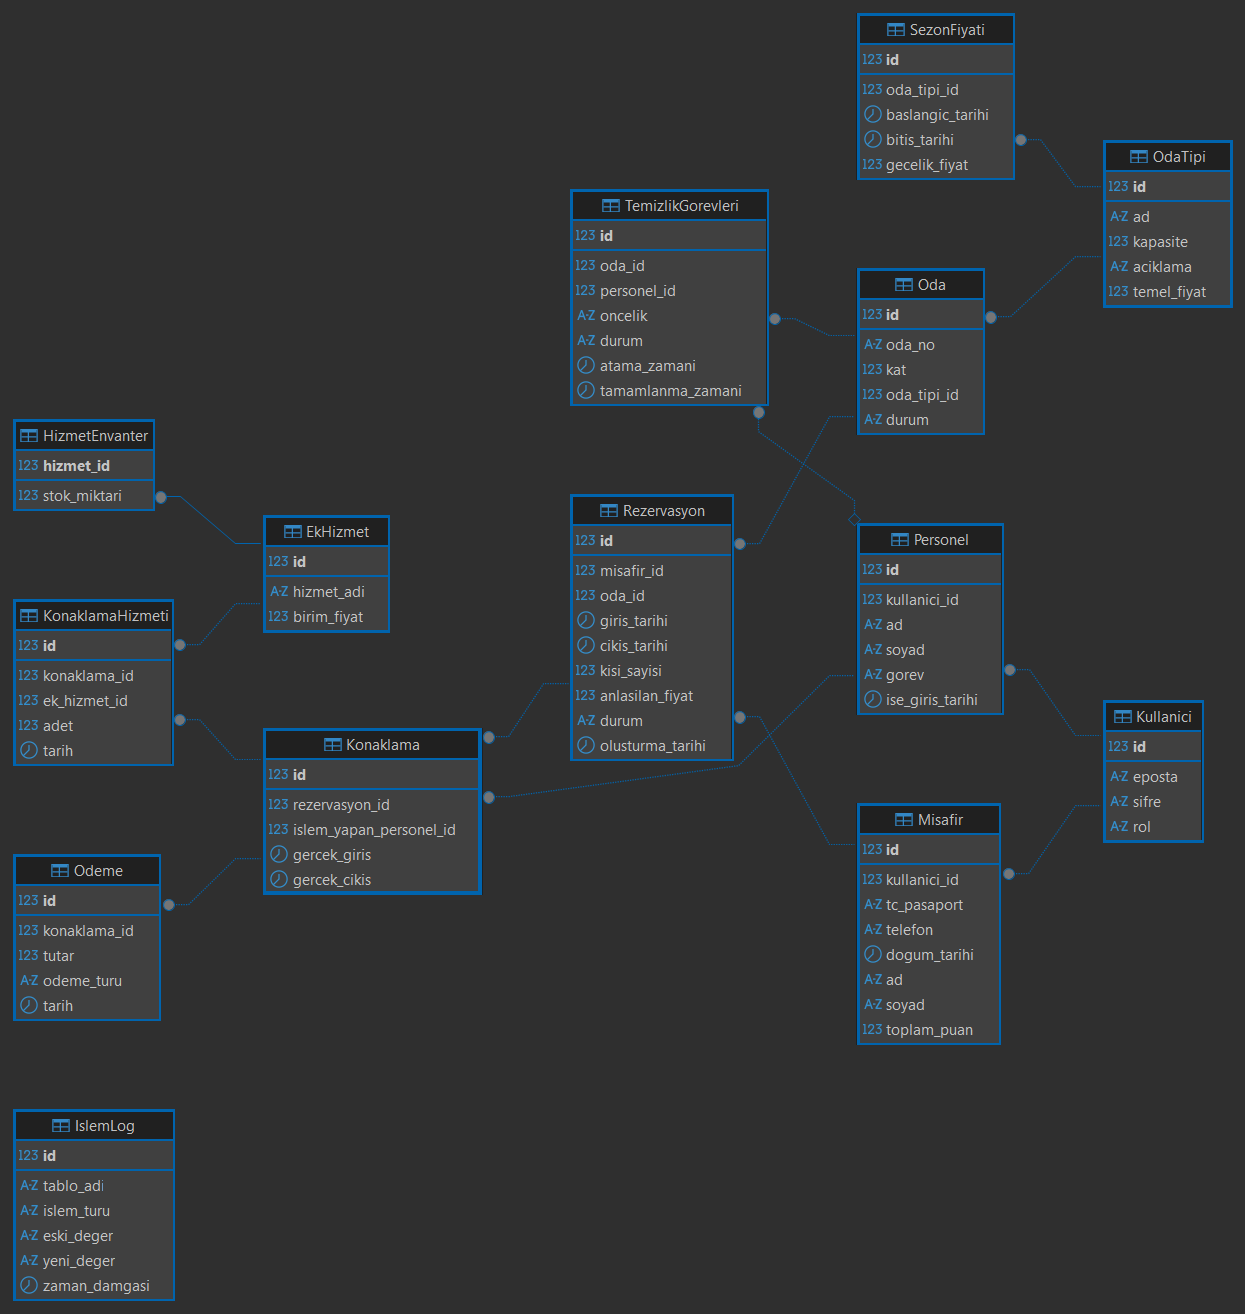
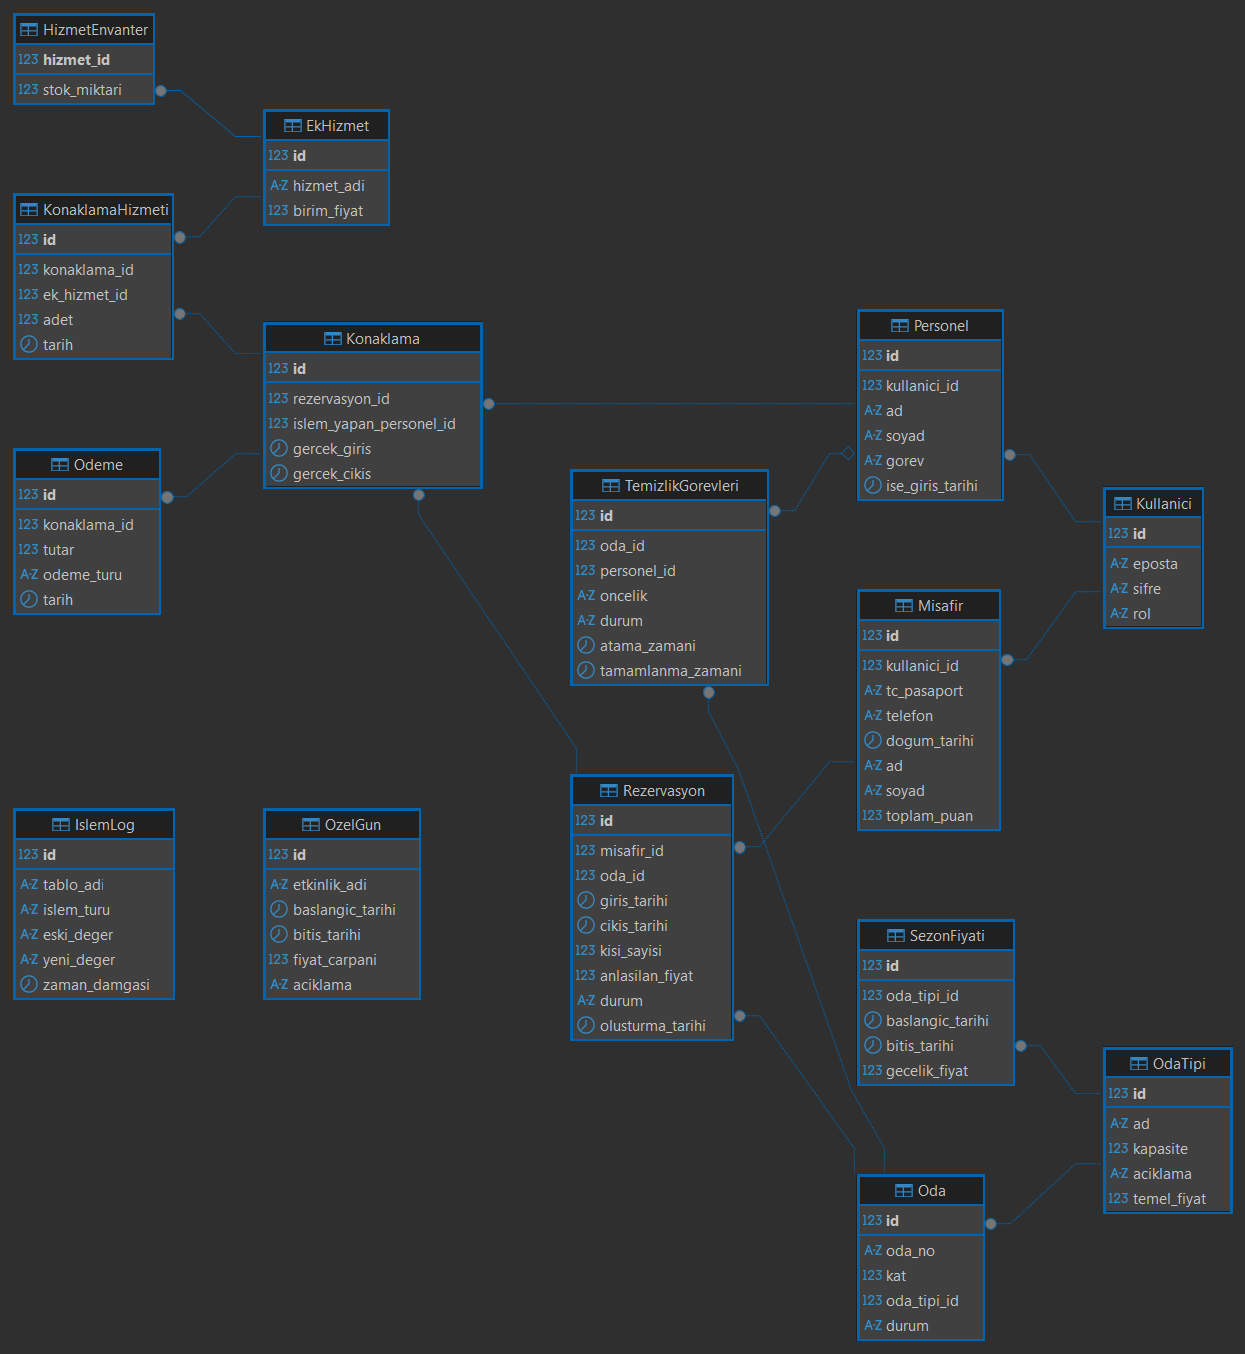
feat: add dynamic pricing table, performance indexes, and seed test data

diff --git a/README.md b/README.md
@@ -48,13 +48,13 @@ Sistem, sürdürülebilirlik ve ölçeklenebilirlik ilkeleri doğrultusunda **Ka
 
 ## 🗄 Veritabanı Mimarisi
 
-Sistem toplam **14 tablodan** oluşmakta olup, tablo ilişkileri ve bağımlılık sırasına göre **5 ana grupta** modellenmiştir:
+Sistem toplam **15 tablodan** oluşmakta olup, tablo ilişkileri ve bağımlılık sırasına göre **5 ana grupta** modellenmiştir:
 
 | Grup Sırası | Kategori | Tablolar |
 | :---: | :--- | :--- |
 | **1** | **Temel Tanım Tabloları** | `OdaTipi`, `Kullanici`, `EkHizmet` |
 | **2** | **İkincil Tablolar** | `HizmetEnvanter`, `Misafir`, `Personel` |
-| **3** | **Ana Operasyon Tabloları** | `Oda`, `SezonFiyati`, `Rezervasyon`, `Konaklama` |
+| **3** | **Ana Operasyon & Fiyatlandırma** | `Oda`, `SezonFiyati`, `OzelGun`, `Rezervasyon`, `Konaklama` |
 | **4** | **Hizmet, Ödeme ve Görev Tabloları** | `KonaklamaHizmeti`, `Odeme`, `TemizlikGorevleri` |
 | **5** | **Denetim Kaydı (Audit Log)** | `IslemLog` |
 
@@ -70,7 +70,7 @@ Veritabanı tabloları arasındaki ilişkileri ve anahtar yapılarını göstere
 
 ## 🚀 Kurulum ve Çalıştırma
 
-Veritabanını ve tabloları oluşturan ana SQL betiği `Data_base/01_schema.sql` dizininde yer almaktadır.
+Veritabanı şeması ve test verileri `Data_base/` dizini altında yer almaktadır.
 
 ### 1. Docker ile MySQL Veritabanını Başlatma
 Aşağıdaki komutu çalıştırarak MySQL 8 konteynerini ayağa kaldırın:
@@ -83,14 +83,30 @@ docker run -d \
   mysql:8
 ```
 
-### 2. SQL Şema Betiğini Çalıştırma
-MySQL istemcisine bağlandıktan sonra şema dosyasını içe aktarın:
+### 2. SQL Şema ve Tabloları Oluşturma
+MySQL istemcisine bağlandıktan sonra şema dosyasını çalıştırın:
 
 ```sql
 SOURCE Data_base/01_schema.sql;
 ```
 
-*(Alternatif olarak doğrudan terminal üzerinden Docker konteynerine aktarmak isterseniz şu komutu kullanabilirsiniz:)*
-```bash
-docker exec -i hotel-db mysql -uroot -phakanaydin123 < Data_base/01_schema.sql
+### 3. Örnek Test Verilerini Yükleme
+Gerçekçi otel operasyon simülasyonu ve test rezervasyonlarını yüklemek için:
+
+```sql
+SOURCE Data_base/02_data.sql;
 ```
+
+---
+
+## 🔑 Test Kullanıcıları ve Kimlik Bilgileri
+
+Sistemi test etmek için `02_data.sql` ile yüklenen tüm kullanıcıların varsayılan şifresi **`password`** olarak belirlenmiş ve veritabanında BCrypt algoritması ile güvenli şekilde hashlenmiştir.
+
+| Rol | E-Posta | Şifre | Açıklama |
+|---|---|---|---|
+| **Yönetici (Admin)** | `ahmet.celik@otel.com` | `password` | Genel Müdür (Tüm sistem yetkileri) |
+| **Resepsiyonist** | `selin.aksoy@otel.com` | `password` | Check-in, check-out ve rezervasyon işlemleri |
+| **Kat Hizmetleri** | `fatma.sahin@otel.com` | `password` | Temizlik görev takibi |
+| **Misafir (VIP)** | `hakan.aydin@ktu.edu.tr` | `password` | Platin VIP müşteri (6161 puan) |
+| **Misafir (Standart)** | `ayse.demir@gmail.com` | `password` | Standart müşteri |
